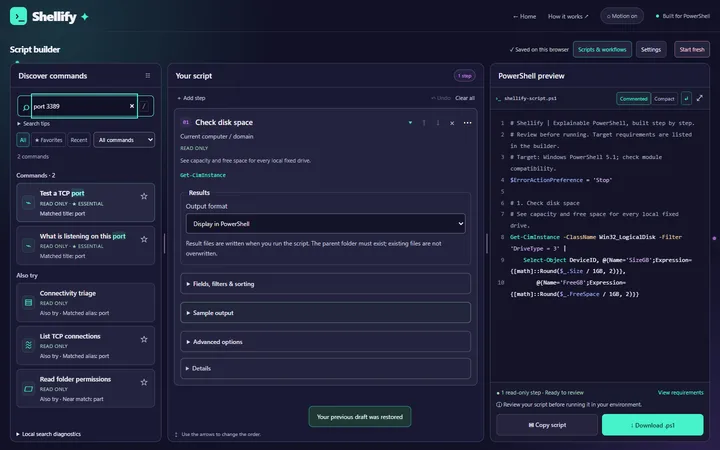
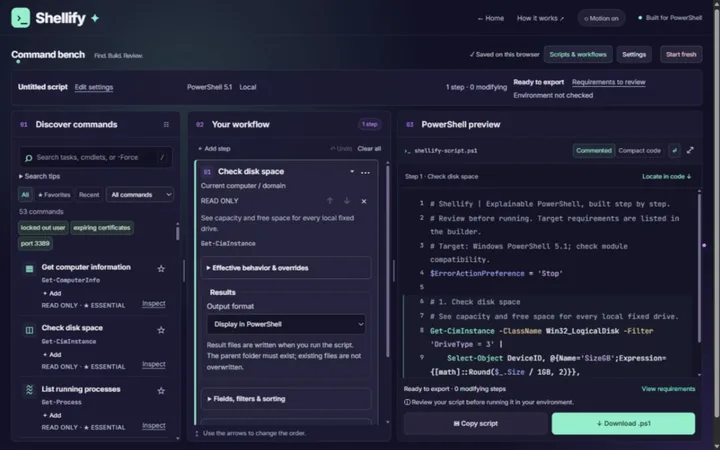
Refresh Shellify preview from the updated live builder

diff --git a/docs/content-evidence.md b/docs/content-evidence.md
@@ -14,7 +14,7 @@ The PDF is explicitly authorized for publication, including its existing contact
 - Fixed sample generated with generateScript([{actionId:'ad-inactive',values:defaults(command)}]). Defaults: 90 days, 100 results, blank server/search base. Exact generated output embedded with prerequisites and module import. No PowerShell executed.
 - All 12 engine tests passed. Broader Shellify browser/integration suites were not rerun. Tests establish generation behavior, not universal environment compatibility.
 - Current source contains result formatting/export controls. The brief’s blanket formatting limitation was narrowed to verbosity concerns and command-dependent support.
-- Shellify screenshot copied from docs/screenshots/sysadmin-search-desktop.png and visually checked. It shows command discovery and a disk-space step, not inactive-user results or workplace data.
+- Shellify screenshot refreshed from the live https://shellify.pages.dev/builder on 19 October 2026 after Matthew’s update. It shows the mint-accented command bench, command discovery, a disk-space step, and generated PowerShell; it contains no workplace results. PNG and 1440w/720w WebP variants were visually checked; the home page and case study share these assets. The local portfolio loaded the updated WebP successfully.
 - Z-Raid: https://github.com/Matthew-Hawk/Z-Raid/blob/main/engine.js . The chance function combines stats, gear, supplies, hazards, progression, and pressure; resolve compares a random roll against that probability. Existing supplied opening-screen imagery illustrates art direction.
 - Promptly: https://github.com/Matthew-Hawk/Promptly/blob/main/dist/library.js defines the dining starter and location/preferences/goal inputs. dist/core.js assembles prompt text. It generates prompts, not restaurant results. Supplemental screenshot shows dining preferences with explicitly illustrative location text.
 
